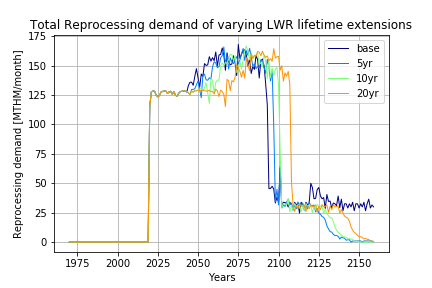
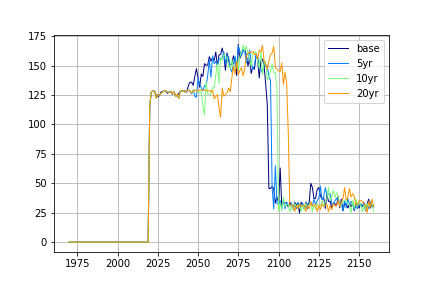
second generation sfrs

diff --git a/sensitivity.tex b/sensitivity.tex
@@ -130,11 +130,11 @@ using the same equation used for the breeding ratio sensitivity study.
 	\label{fig:ext_uox}
 \end{figure}
 
-Figure \ref{fig:ext_all} shows that lifetime extension has little
-effect on the \emph{average} monthly reprocessing demand, because
-the amount of plutonium in the \gls{ASTRID} used fuel remains the same.
+Figure \ref{fig:ext_all} shows that lifetime extension increases
+\emph{average} monthly reprocessing demand, because more \gls{LWR}
+\gls{UNF} is reprocessed with delayed \gls{ASTRID} deployment.
 The delay of \gls{ASTRID} deployment simply provides more time for
-France to prepare the fuel. 
+France to prepare the fuel.
 Extended \gls{LWR} lifetimes delay transition, and provide France with
 time to accumulate \gls{LWR} \gls{UNF}. However, these 
 license extensions do not reduce
@@ -160,7 +160,7 @@ the total reprocessing capacity required for transition.
 		  & \multicolumn{4}{c}{\% Difference} \\
 		 \textbf{LWR lifetime extension $\longrightarrow$}& \textbf{0 years}& \textbf{5 years} & \textbf{10 years} & \textbf{20 years} \\
 		\hline
-		Total reprocessing demand & 0.0 & -5.9 & -3.3 & 3.1 \\
+		Total reprocessing demand & 0.0 & 0.3 & 1.7 & 5.9 \\
 		\gls{LWR} \gls{UNF} reprocessed & 0.0  & 2.0 & 6.3 & 15.5 \\
 		\hline
 	\end{tabular}

diff --git a/conclusion.tex b/conclusion.tex
@@ -12,9 +12,9 @@ The sensitivity study explored the effect of increased \gls{SFR} breeding
 ratio and existing \gls{LWR} lifetime extension. Increasing the breeding
 ratio reduced the amount of \gls{LWR} \gls{UNF} required to transition
 up to $9.7\%$ and decreased the total reprocessing demand up to $3.4\%$.
-Increasing the lifetime of existing \glspl{LWR} was not significant
-in reducing reprocessing demand, but provided the benefit of delayed
-transition.
+Increasing the lifetime of existing \glspl{LWR} 
+increased reprocessing demand, since more \gls{LWR} \gls{UNF} were
+reprocessed for plutonium prior to \gls{ASTRID} deployment.
 
 Since most \gls{EU} nations do not have an operating \gls{UNF}
 repository or a management plan, they have a strong incentive
